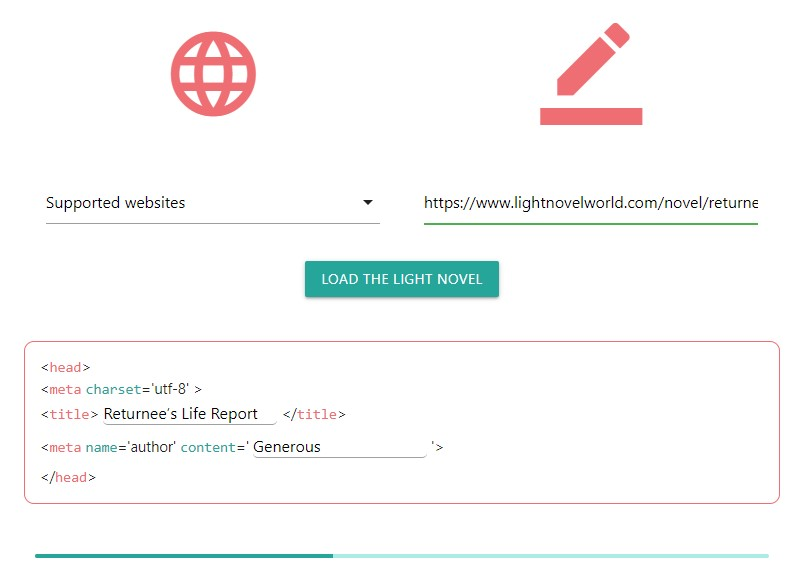
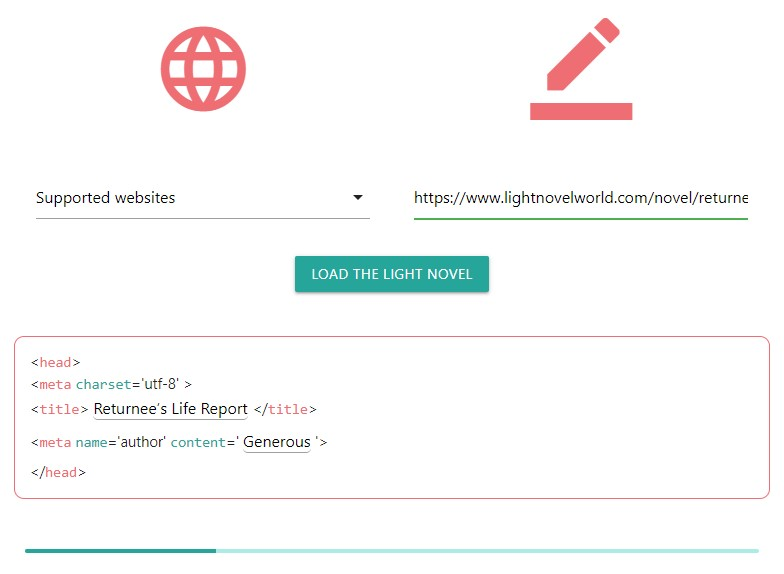
comments and update image

diff --git a/local/js/main.js b/local/js/main.js
@@ -250,10 +250,12 @@ function display_metadata() {
 	set_size_input('ln_author');
 }
 
+// Set the size of the input depending of its content
 function set_size_input(id) {
 	let elmt = document.getElementById(id);
 	let dummy_span = document.getElementById('dummy_span');
 
+	// If value insert it to the dummy span
 	if (elmt.value.length > 0) {
 		dummy_span.innerHTML = elmt.value;
 	}
@@ -261,6 +263,8 @@ function set_size_input(id) {
 		dummy_span.innerHTML = elmt.placeholder;
 	}
 
+	// An element with 'display: none;' doesn't have a width
+	// Hence we need to display him
 	dummy_span.parentNode.classList.remove('d-none');
 
 	elmt.setAttribute(
